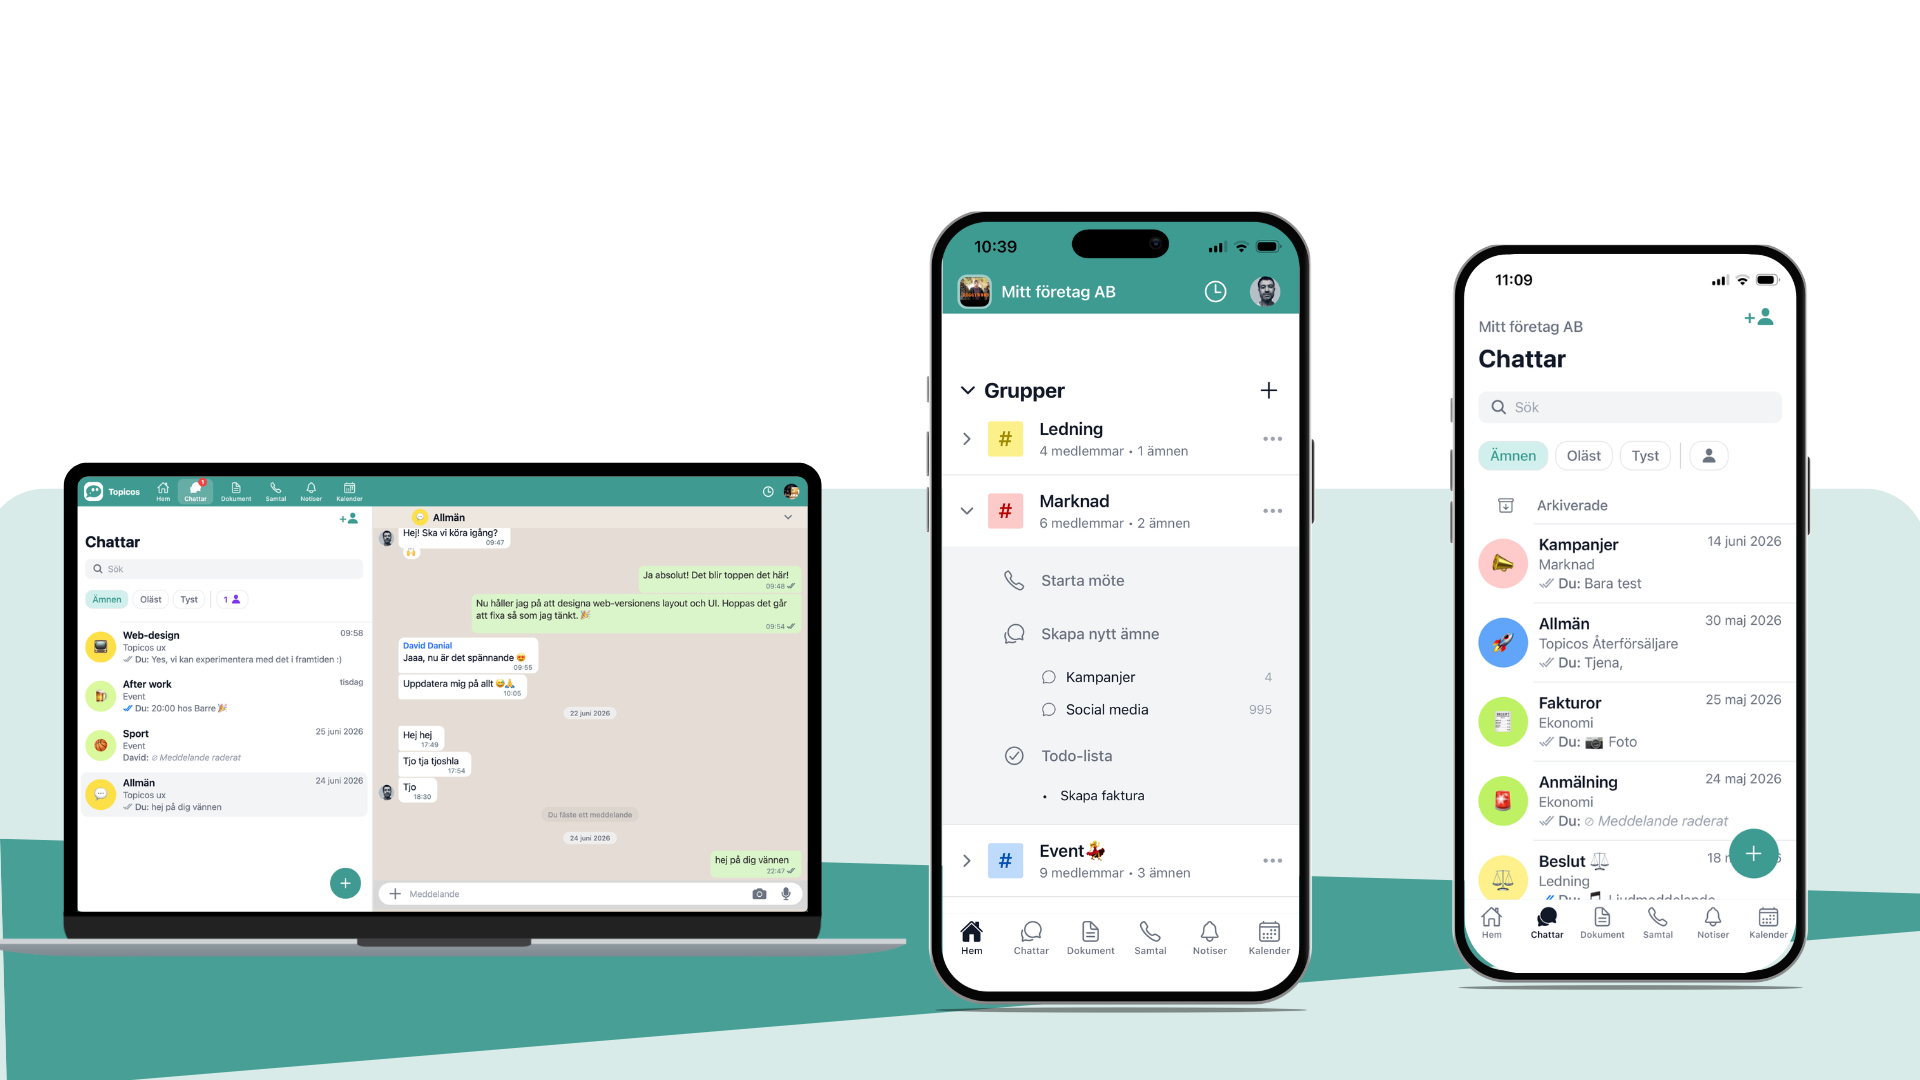
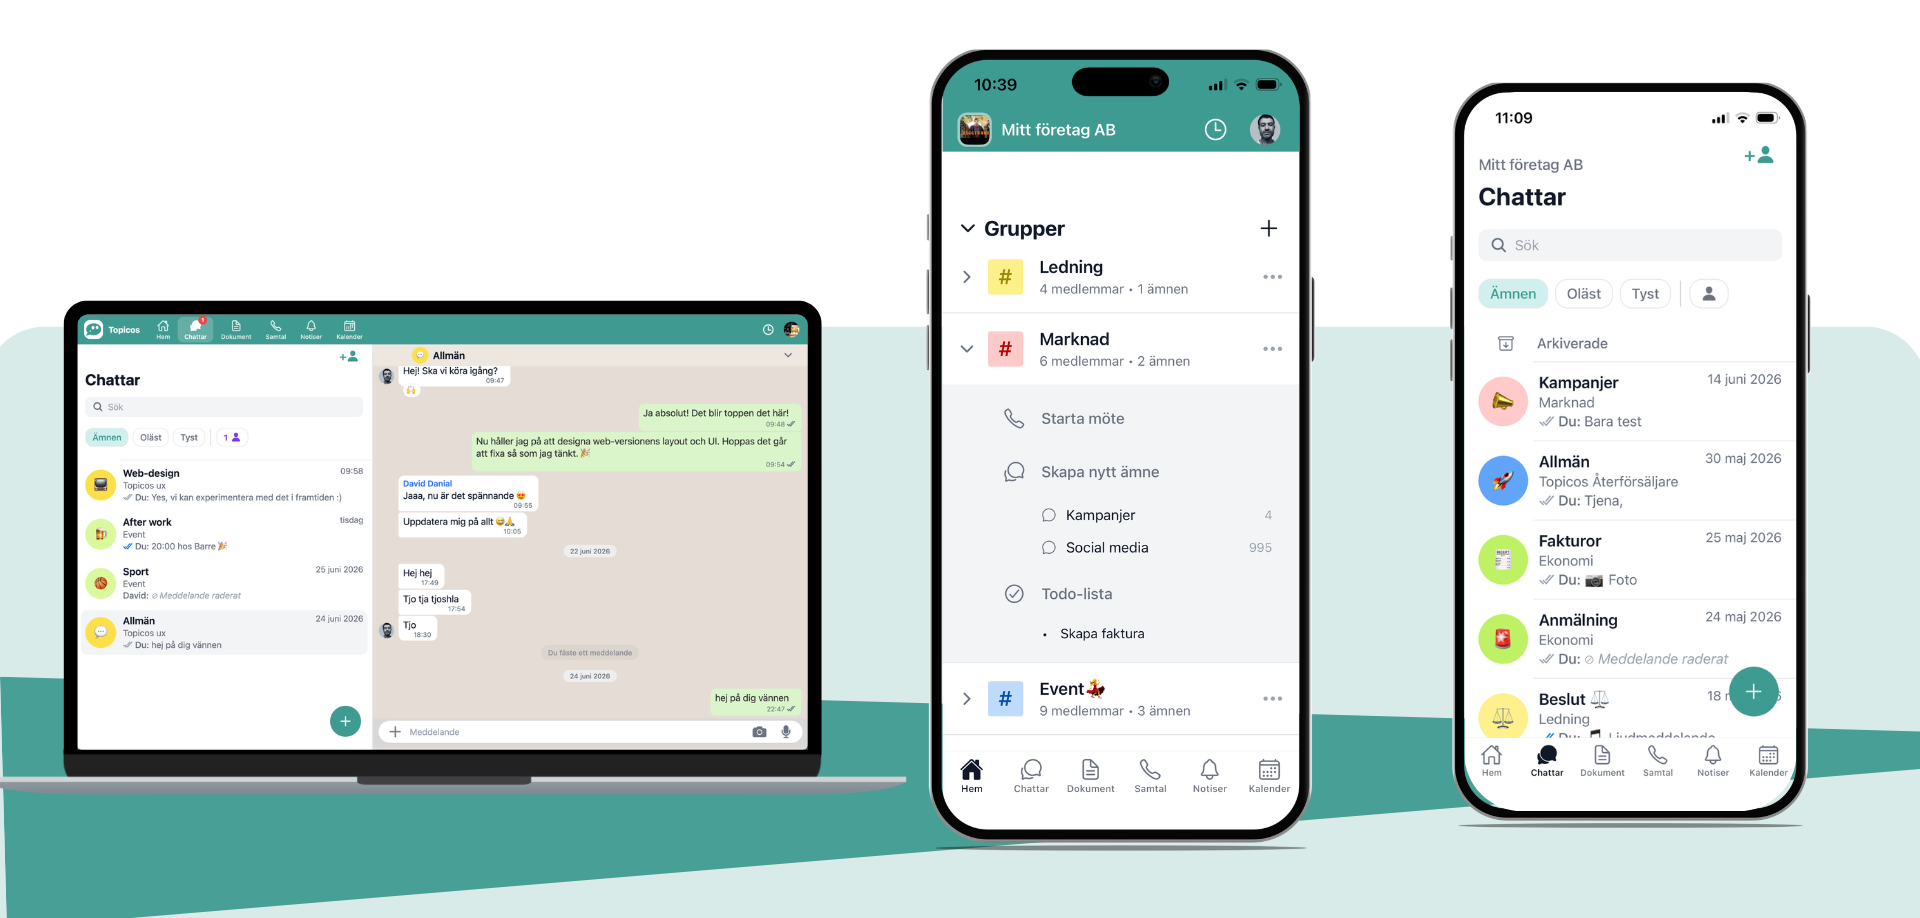
justerade bilden

diff --git a/index.html b/index.html
@@ -53,7 +53,7 @@
       src="Bilder/topicos-showcase.png"
       alt="Topicos på laptop och iPhone – chattar, grupper och ämnen"
       class="showcase-img"
-      width="1920" height="1080"
+      width="1920" height="918"
       loading="lazy" decoding="async">
   </section>
 

diff --git a/styles.css b/styles.css
@@ -269,7 +269,7 @@ body {
 }
 
 .showcase-img {
-  width: 35%;
+  width: 50%;
   height: auto;
   border-radius: 20px;
 }
